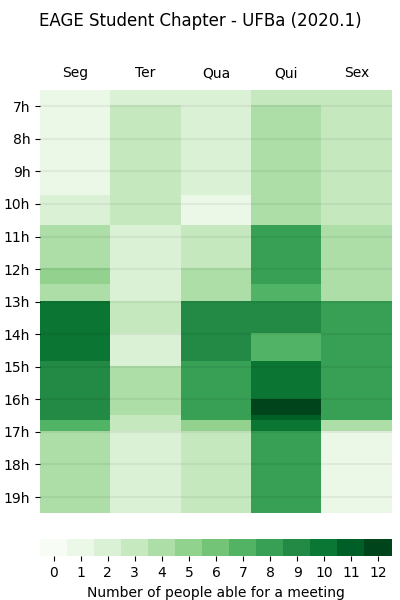
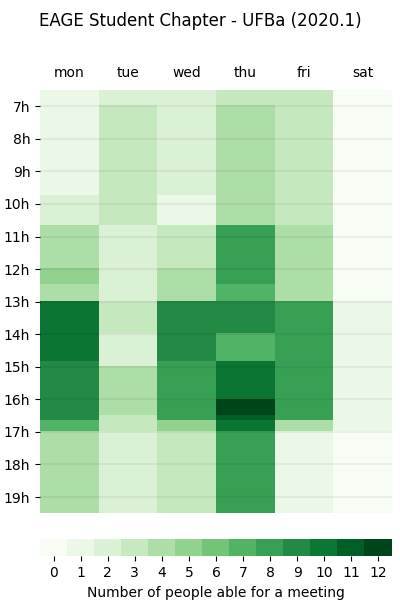
csv input option added

diff --git a/easymeet/__init__.py b/easymeet/__init__.py
@@ -1,7 +1,7 @@
-import re
 import numpy as np
 import matplotlib.colors as clr
 import matplotlib.pyplot as plt
+from  re import findall
 
 
 DAYNAMESEN = [['mon', 'monday'],
@@ -18,7 +18,7 @@ def format_time(time):
         h = int(time)
         m = round(60*(time-h))
     except ValueError:
-        time_found = re.findall('(\d+)[h:]*(\d*)|(\d)+\.?(\d)', time)
+        time_found = findall('(\d+)[h:]*(\d*)|(\d)+\.?(\d)', time)
         h1, m1, h2, m2 = time_found[0]
         if h1 or m1:
             h = int(h1) if h1 else 0
@@ -29,7 +29,7 @@ def format_time(time):
     return(h,m)
 
 def format_interval(interval):
-    interval = re.findall('(\d*)[h:]*(\d*)[-\.]+(\d*)[h:]*(\d*)', interval)
+    interval = findall('(\d*)[h:]*(\d*)[-\.]+(\d*)[h:]*(\d*)', interval)
     if interval:
         h1, m1, h2, m2 = interval[0]
         h1 = int(h1) if h1 else 0
@@ -45,12 +45,23 @@ def format_interval(interval):
         t1, t2 = 0,0
     return(t1,t2)
 
+
+def file2dict(filename):
+    dic = {}
+    with open(filename) as f:
+        for line in f.readlines():
+            res = findall(r'([\s\w]*):?\s*(.+)', line)
+            if len(res)>0:
+                res = res[0]
+                dic[res[0]] = res[1]
+    return(dic)
+
 # rename variables for more readability...
 def edit_daytimes(daytimes, possible_daynames=DAYNAMESEN):
-    daytimes = re.findall(r'\(([^\)]+)\)|(\S+)', daytimes)
+    daytimes = findall(r'\(([^\)]+)\)|(\S+)', daytimes)
     for dt,_ in enumerate(daytimes):
         daytimes[dt] = [intervals for intervals in daytimes[dt] if intervals][0]
-        daytimes[dt] = re.findall(r'(\S+)', daytimes[dt].replace('+', ''))
+        daytimes[dt] = findall(r'(\S+)', daytimes[dt].replace('+', ''))
 
     # copying list and sublists
     edited_daytimes = [ intervals[:] for intervals in daytimes ]

diff --git a/example_input_file.py b/example_input_file.py
@@ -1,0 +1,18 @@
+#!/usr/bin/env python3
+
+from re import findall
+from easymeet import plot_free_schedule, file2dict
+
+
+input_file = 'example_input_file.txt'
+people_free_schedule = file2dict(input_file)
+
+plot_free_schedule(people_free_schedule,
+                   also_possibly_en_daynames=True,
+                   first_day=0, last_day=5,
+                   header="EAGE Student Chapter - UFBa (2020.1)",
+                   start_time='6:30', end_time=20.5,
+                   cmap='Greens',
+                   format24=True,
+                   hourhlines=True,
+                   filename='example/eagescufba.png')

diff --git a/README.md b/README.md
@@ -2,12 +2,26 @@
 
 Tool made to help teams find the most optimized time for a meeting.
 
-![eagescufba](example/eagescufba.png)
+<p align="center"><img height="40%" src="example/eagescufba.png" alt="eagescufba">
 
 
-## instalation
+## Dependencies
 
-~Gotta write here...~
+You need `Python 3+` and `pip 3+` in order to use this script.
+
+| Python libraries needed |
+| - |
+| numpy |
+| matplotlib |
+| pyqt5 |
+
+If your distribution still calls Python as "python2", instead of "python3" (you can tell that by sending `realpath $(which python)`), as debian and debian based distros do (Ubuntu and Linux Mint are examples), use pip3 instead of pip to install dependencies with:
+
+```sh
+pip install --user numpy, matplotlib, pyqt5
+# or, if  python3 isn't default,
+pip3 install --user numpy, matplotlib, pyqt5
+```
 
 
 ## Usage
@@ -59,11 +73,6 @@ The filename keyword saves image at its value ("path/to/filename.png"). Look at 
 # Other examples
 
 ![example](example/example.png)
-
-
-# To do
-
-Implement reading intervals from a csv file.
 
 
 ## Contact
